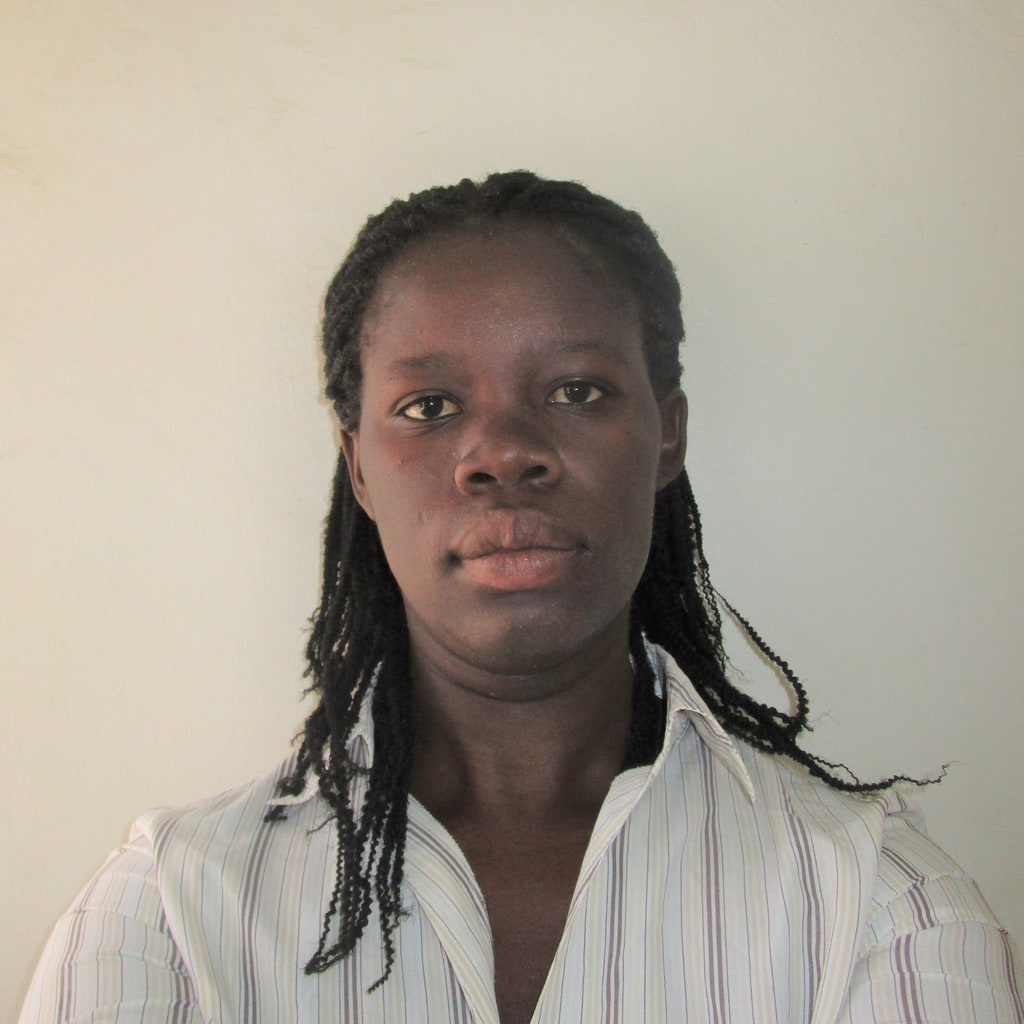
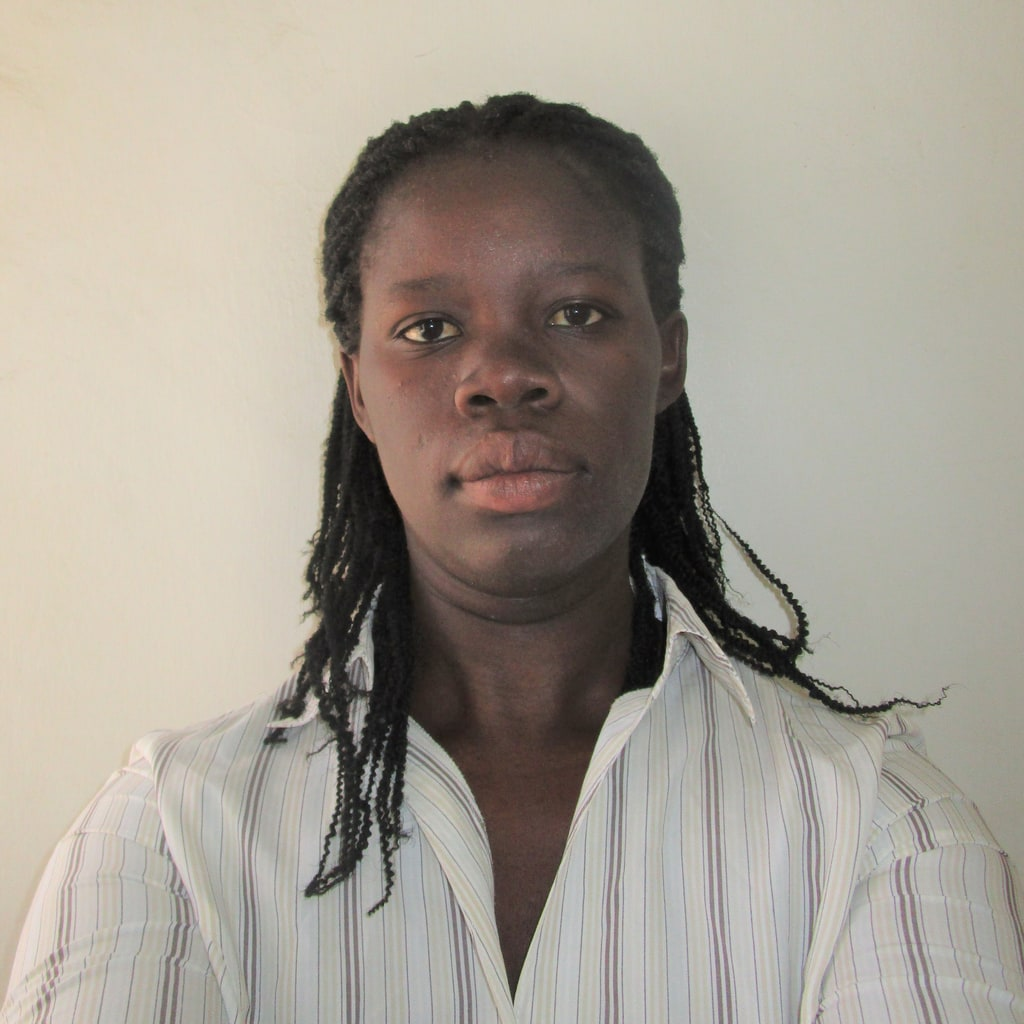
Raise Abigael's portrait crop: less space above the head, more below

Changed region(s): [[0.0, 0.0938, 1.0, 1.0], [0.625, 0.9688, 0.6562, 1.0]]

diff --git a/nextjs-app/lib/team-data.ts b/nextjs-app/lib/team-data.ts
@@ -61,7 +61,7 @@ export const TEAM_MEMBERS: TeamMember[] = [
     initials: 'AO',
     name: 'Dr. Abigael Okoko',
     role: 'Research Fellow',
-    photo: '/assets/team/abigael-okoko.jpg?v=3',
+    photo: '/assets/team/abigael-okoko.jpg?v=4',
     linkedin: 'https://www.linkedin.com/in/abigael-okoko-phd-2279ba59/',
     scholar: 'https://scholar.google.com/citations?view_op=new_articles&hl=en&imq=Abigael+Okoko',
     bio: [
